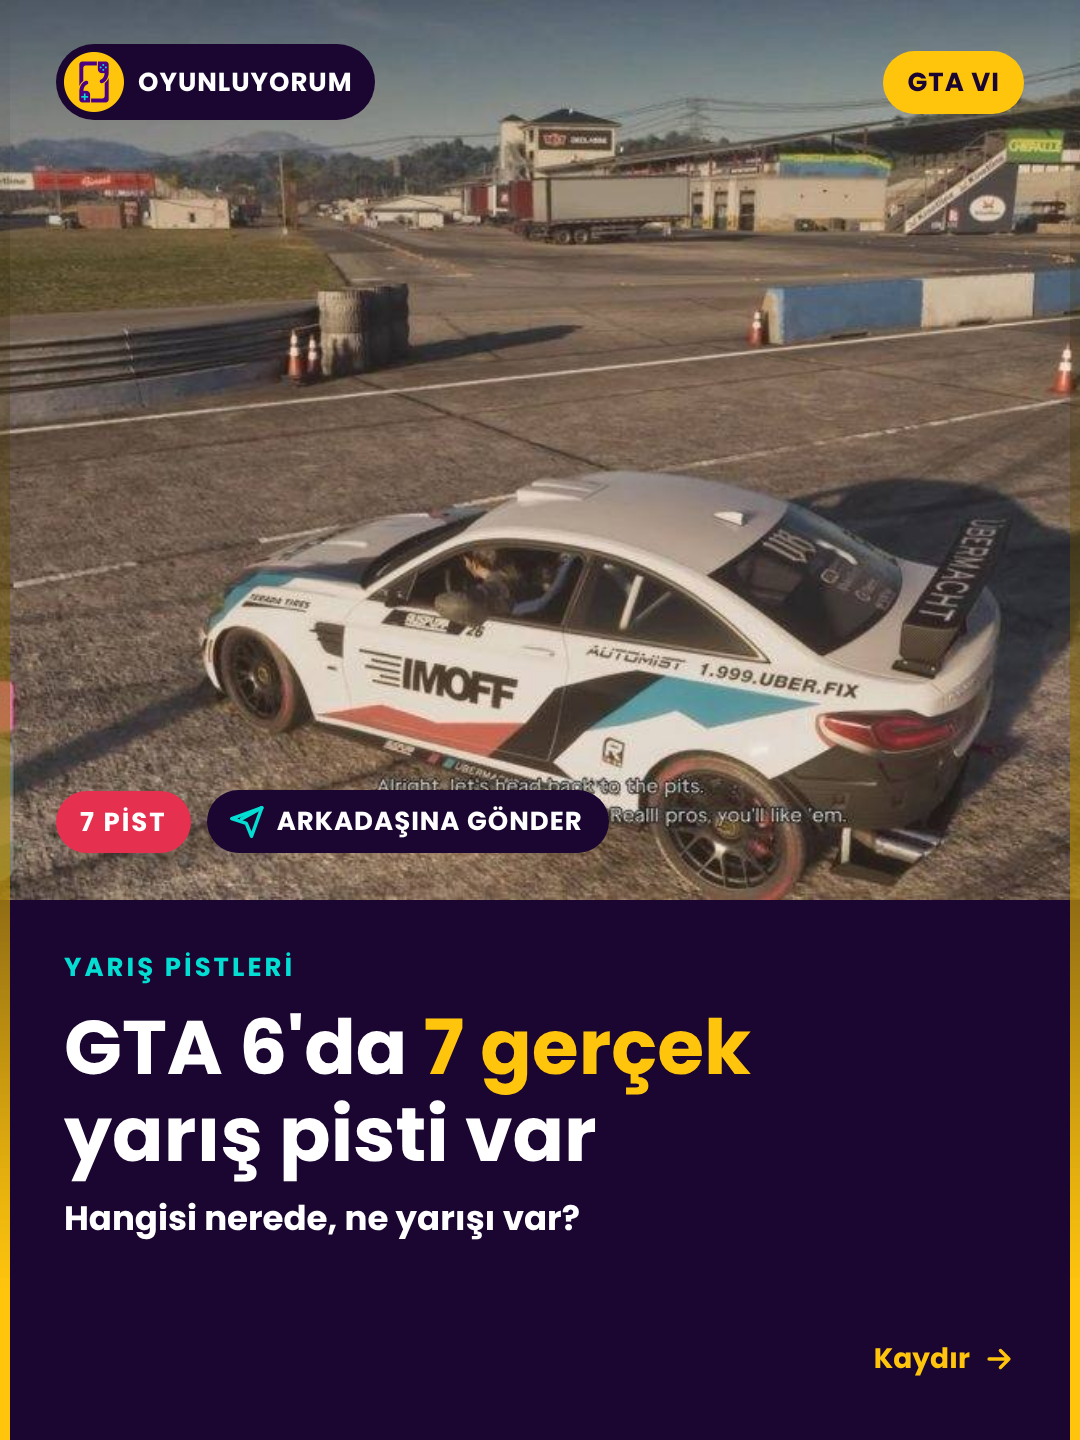
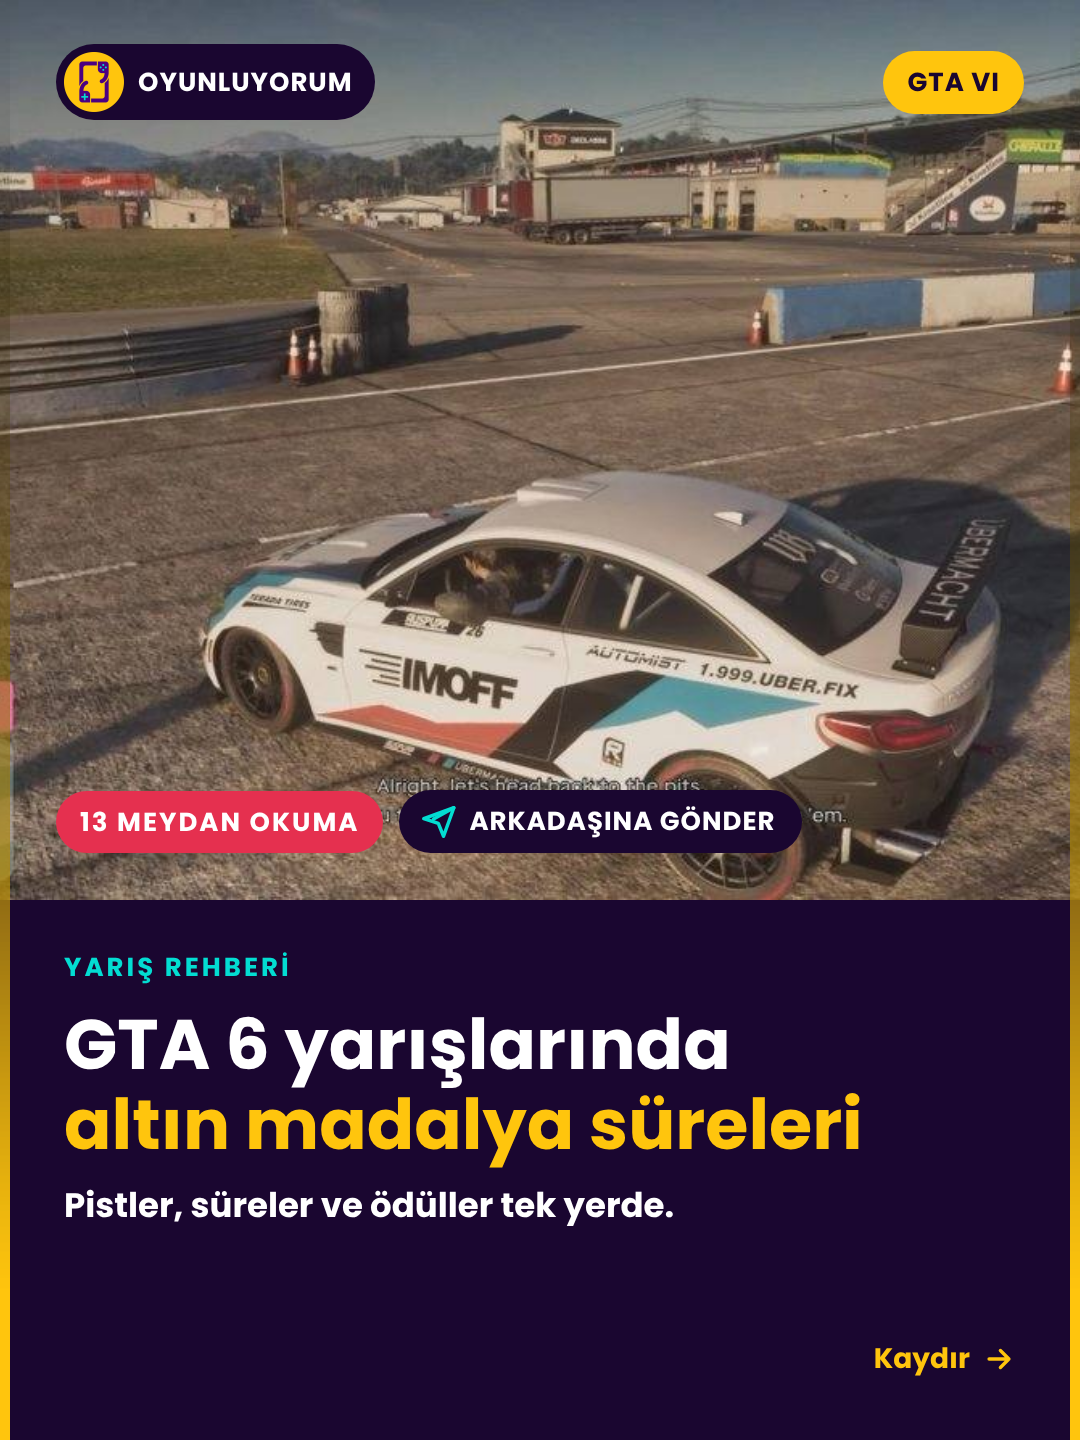
GTA 6 yarış karuseli: GameSpot + GAMES.GG + PowerPyx birleştirildi (7 slayt)
Claude-Session: https://claude.ai/code/session_01Cfy9VgEXWVL5ta7MT2PpLs

Changed region(s): [[0.0611, 0.6562, 0.7944, 0.875], [0.0611, 0.5312, 0.7639, 0.5938]]

diff --git a/posts/2026-11-27-gta6-yaris-pistleri/aciklama.md b/posts/2026-11-27-gta6-yaris-pistleri/aciklama.md
@@ -1,13 +1,13 @@
-# GTA 6 yarış pistleri ve meydan okumaları (karusel, 6 slayt)
+# GTA 6 yarış rehberi: yerler, madalya süreleri, para (karusel, 7 slayt)
 
 Durum: paylaşılmadı
-Kaynak: https://www.gamespot.com/articles/all-race-challenges-racetrack-locations-in-gta-6/
-Not: Görseller GameSpot makalesinden (harita kartları ve oyun görüntüleri). Slayt 2'deki "belki de en iyi yarış deneyimi" makalenin "arguably" ifadesine dayanıyor.
+Kaynaklar: GameSpot (yerler), GAMES.GG (13 meydan okuma süre/puan hedefleri, Boone 400$ kira, Gellhorn giriş turu 1:00), PowerPyx (40 normal yarış, giriş ve kiralama ücreti, kupa)
+Not: Hiçbir kaynak madalya başına para ödülü vermiyor, slayt 7 bunu açıkça söylüyor. Konum tarifleri kaynaklar arasında küçük farklılık gösteriyor, ortak olanlar yazıldı.
 
 ## Açıklama
-GTA 6'da sadece sokak yarışı yok, 7 gerçek yarış pisti var 🏁
-Gellhorn Raceway'de stock car, Thrillbilly Mud Club'da 6 farklı çamur meydan okuması, Boone'da her turda biri elenen yarış, Mount Kalaga'da bisikletle dağdan iniş.
-Sen hangisine ilk gidersin? 👇
+GTA 6'da 13 yarış meydan okuması var ve %100 için 10 altın madalya yetiyor 🏆
+Gellhorn, Thrillbilly Mud Club, Boone, Ambrosia, Kalaga, Hamlet ve Waning Sands: hepsinin altın süre ve puan hedefleri slaytlarda.
+Sen hangisinde altın aldın? 👇
 Bunu yarış seven arkadaşına gönder.
 
 #gta6 #gtavi #gta6türkiye #rockstargames #oyun #oyunluyorum
